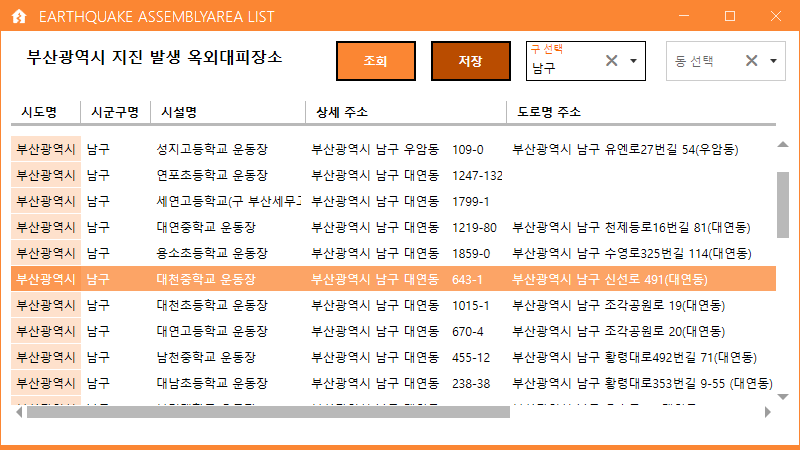
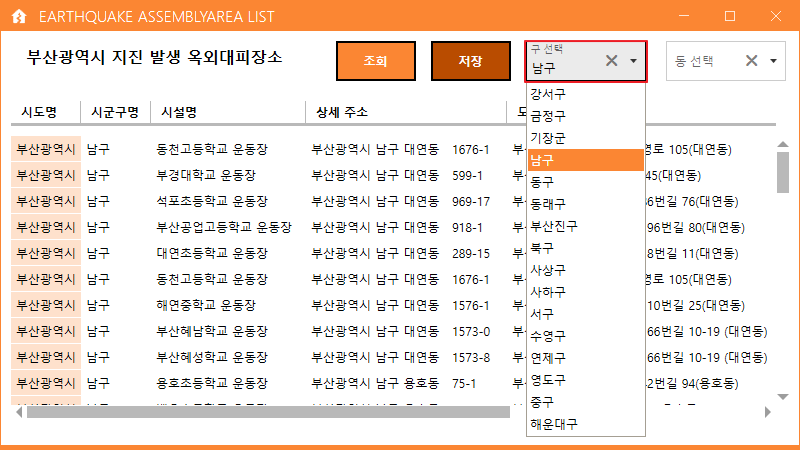
20240806

diff --git a/README.md b/README.md
@@ -3,26 +3,34 @@ WPF 개인프로젝트 리포지토리
 
 **데이터포털 API 연동앱**  
 
+![시작화면](https://raw.githubusercontent.com/LEUNSU/wpf-toyproject-2024/main/images/wpf001.png)
 
+## 배경
+    - 지진이나 전쟁 등 재해 발생 시 효율적인 대피를 위한 대피장소 검색 
 
-
-https://github.com/user-attachments/assets/11b13351-30f5-4bb6-9ad6-339e46e58843
-
-
-
-
-
-
-- 기능 
-    - 부산광역시 지진 발생 시 옥외대피장소를 특정 '구'이름과 '동'이름을 선택하여 원하는 정보를 볼 수 있음
-    - 선택한 장소의 지도를 상세히 볼 수 있음
+## 기능 
+    - 부산광역시 지진 발생 시 옥외대피장소를 특정 '구'이름과 '동'이름을 선택하여 원하는 정보를 이용
+    - 선택한 장소를 구글 지도와 연동하여 장소 및 길 찾기 가능
         
-- 특징
+## 특징
+- ![JSON파일](https://raw.githubusercontent.com/LEUNSU/wpf-toyproject-2024/main/images/wpf010.png)
+    - 공공데이터포털
+
+- ![DB화면](https://raw.githubusercontent.com/LEUNSU/wpf-toyproject-2024/main/images/wpf009.png)
     - 두 개의 콤보박스를 연동시킴으로써, '구'를 선택한 후 '구' 내의 '동'을 선택할 수 있음 (DB 사용)
     - API에서 제공하는 경도와 위도 값을 사용해 구글 지도와 연동하여, 선택한 주소 위치의 구글 지도가 나타남 
 
-- 배운 점
-    - API에서 '구'이름을 나타내는 특정 데이터 값은 있었지만 '동'이름만 나타내는 데이터 값은 없었기때문에, 전체 주소에서 특정 '구'나 '군'에 속하는 '동'이름을 추출함
+![전체조회](https://raw.githubusercontent.com/LEUNSU/wpf-toyproject-2024/main/images/wpf002.png)
+
+- 조회버튼을 누르고 저장을 누르면 API에서 불러온 데이터가 DB에 저장
+
+![구선택](https://raw.githubusercontent.com/LEUNSU/wpf-toyproject-2024/main/images/wpf003.png)
+
+- API에서 '구'이름을 나타내는 데이터 값만 추출
+
+![동선택](https://raw.githubusercontent.com/LEUNSU/wpf-toyproject-2024/main/images/wpf004.png)
+
+- API에서 '구'이름을 나타내는 특정 데이터 값은 있었지만 '동'이름만 나타내는 데이터 값은 없었기때문에, 전체 주소에서 특정 '구'나 '군'에 속하는 '동'이름을 추출
 
     ``` 
     SELECT DISTINCT TRIM(REPLACE((RIGHT(b.Sub_adres, CHARINDEX(' ', b.Sub_adres) + 1)), '구 ', '')) AS Dong
@@ -33,7 +41,15 @@ https://github.com/user-attachments/assets/11b13351-30f5-4bb6-9ad6-339e46e58843
                                                     ) AS b
     ``` 
 
-- 아쉬운 점
-    - '구', '동' 선택 기능을 DB를 사용하지 않고 API에서 데이터를 바로 불러올 수 있도록 하는 방법이 있지만 아직 실력이 부족함 
-    - API에서 데이터가 갱신되면 프로그램에서 오류가 생김
-    - 범위를 부산광역시로 한정하였지만, API에서 제공하는 데이터는 전 지역이기때문에 전 지역을 범위로 하여 프로그램을 수정해 보고 싶음 
+![구글지도](https://raw.githubusercontent.com/LEUNSU/wpf-toyproject-2024/main/images/wpf008.png)
+
+- 원하는 장소 선택하여 클릭하면, 구글 지도와 연동되어 장소 및 길 찾기 가능
+  
+    ```
+    public MapWindow(double Ycord, double Xcord) : this()
+    {
+        BrsLoc.Address = $"https://google.com/maps/place/{Ycord},{Xcord}";
+    }
+    ```
+
+![작동영상](https://github.com/user-attachments/assets/11b13351-30f5-4bb6-9ad6-339e46e58843)
